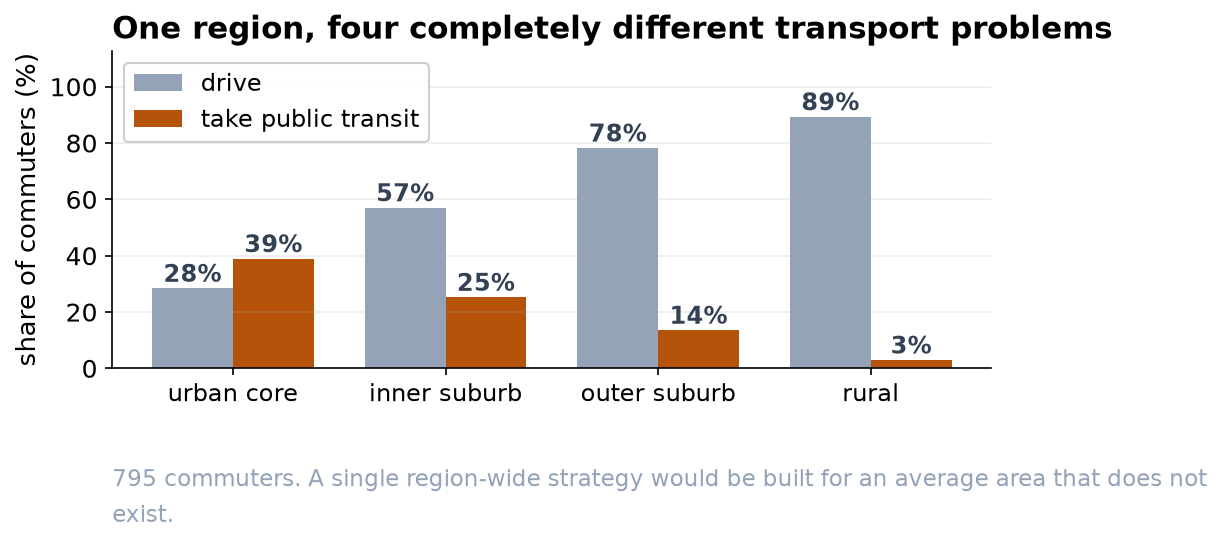
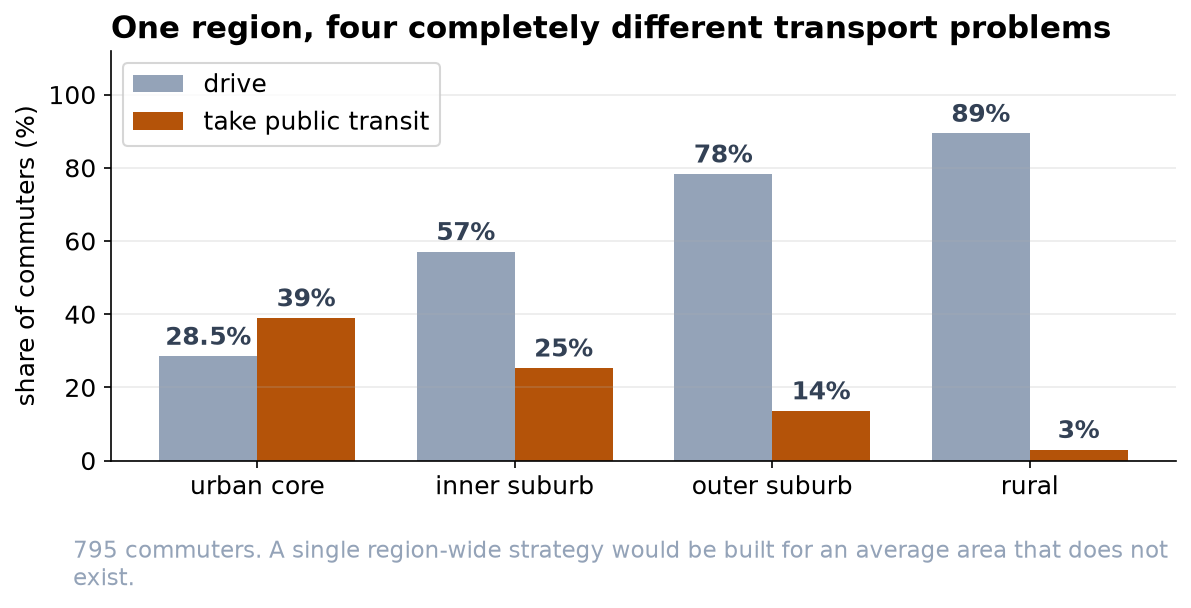
Correct nine points in Capstone: Commute Mode by Region
- The page, notebook and both reports said the association is carried
  almost entirely by the car and transit cells and that cycling and
  walking barely move. Car and transit carry about 73% of the
  chi-square (now printed); cycling and walking fall from about 16% to
  4% and are clearly over-represented in the Urban Core (residuals +4.2
  and +3.7).
- The technical report gave every regional share a margin of six to
  seven points. The margins run from about 2 to 7 and shrink with the
  share.
- Non-significant age ANOVAs were read as proof that age doesn't differ.
  They found no detectable difference in mean age, so age is unlikely
  to drive the pattern; the figure, caption, notebook and report say so.
- "Strongly related" sat beside a V of 0.28 the same pages call
  moderate. It is now "clearly related".
- The quiz and text said almost any pattern is significant at n = 795.
  A V below about 0.08 would not be, so the reason is now that a
  p-value says nothing about strength.
- "The data will not support calling it strong" depends on the fixed
  cutoffs used; Cohen's benchmark for a 4 x 4 table puts large near
  0.29, inside the interval. The text now names the convention.
- The residuals were called roughly z-scores. They are Pearson
  residuals, whose variance is below 1, so the +/-2 flag is
  conservative.
- Urban Core car use is 28.5%, which the page, brief and its figure
  rounded down to 28%. The figure is redrawn.
[…]

diff --git a/chapters/notebooks/html/capstone-commute-mode-by-region.html b/chapters/notebooks/html/capstone-commute-mode-by-region.html
@@ -8296,7 +8296,7 @@ clean analysis sample: n = 795
 </div>
 <div class="jp-InputArea jp-Cell-inputArea"><div class="jp-InputPrompt jp-InputArea-prompt">
 </div><div class="jp-RenderedHTMLCommon jp-RenderedMarkdown jp-MarkdownOutput" data-mime-type="text/markdown">
-<p><strong>Left:</strong> the four bars stop at or just short of the dashed line at 200, the number drawn from each area. The few respondents missing are the duplicates and incomplete answers Step 4 removed. Equal counts make the areas easy to compare, and they also mean the file says nothing about how many people live in each one. <strong>Right:</strong> each mode's share of an area's respondents, from the core outward. Car use rises at every step and transit falls at every step, while cycling and walking shrink from about 16% each in the Urban Core to about 4% in Rural areas. If commute mode were independent of area, these four lines would run flat. Step 6 puts the counts in a table, and Step 11 tests whether a gradient this steep could be chance.</p>
+<p><strong>Left:</strong> the four bars stop at or just short of the dashed line at 200, the number drawn from each area. The five missing respondents are the incomplete answers Step 4 removed (the two duplicates were extra copies, so they never counted toward the 200). Equal counts make the areas easy to compare, and they also mean the file says nothing about how many people live in each one. <strong>Right:</strong> each mode's share of an area's respondents, from the core outward. Car use rises at every step and transit falls at every step, while cycling and walking shrink from about 16% each in the Urban Core to about 4% in Rural areas. If commute mode were independent of area, these four lines would run flat. Step 6 puts the counts in a table, and Step 11 tests whether a gradient this steep could be chance.</p>
 </div>
 </div>
 </div>
@@ -8364,7 +8364,7 @@ Rural         89.4             3.0      4.0   3.5
 </div>
 <div class="jp-InputArea jp-Cell-inputArea"><div class="jp-InputPrompt jp-InputArea-prompt">
 </div><div class="jp-RenderedHTMLCommon jp-RenderedMarkdown jp-MarkdownOutput" data-mime-type="text/markdown">
-<p><strong>Read the row percentages, not the raw counts.</strong> Because every area contributes 200 respondents by design, the raw counts are comparable, but percentages make the pattern unmistakable: public transit falls from roughly 39% in the Urban Core to about 3% in Rural areas, while car use climbs from about 28% to nearly 90%. If mode and area were independent, these four rows would look alike. They do not.</p>
+<p><strong>Read the row percentages, not the raw counts.</strong> Because every area contributes 200 respondents by design, the raw counts are comparable, but percentages make the pattern unmistakable: public transit falls from roughly 39% in the Urban Core to about 3% in Rural areas, while car use climbs from about 29% (28.5%) to nearly 90%. If mode and area were independent, these four rows would look alike. They do not.</p>
 </div>
 </div>
 </div>
@@ -8463,7 +8463,7 @@ assumption satisfied
 <h2 id="Step-10-%C2%B7-Choose-the-tests">Step 10 · Choose the tests<a class="anchor-link" href="#Step-10-%C2%B7-Choose-the-tests">¶</a></h2><ul>
 <li><strong>Primary:</strong> chi-square test of independence on the 4 × 4 table.</li>
 <li><strong>Effect size:</strong> Cramer's V, which rescales chi-square to a 0-to-1 measure comparable across tables.</li>
-<li><strong>Locating the effect:</strong> standardized (Pearson) residuals, cell by cell.</li>
+<li><strong>Locating the effect:</strong> Pearson residuals, (observed minus expected) over the square root of expected, cell by cell.</li>
 </ul>
 </div>
 </div>
@@ -8519,7 +8519,7 @@ Cramer's V = 0.282   (moderate association)
 </div>
 <div class="jp-InputArea jp-Cell-inputArea"><div class="jp-InputPrompt jp-InputArea-prompt">
 </div><div class="jp-RenderedHTMLCommon jp-RenderedMarkdown jp-MarkdownOutput" data-mime-type="text/markdown">
-<p><strong>Reading the result.</strong> The chi-square statistic is enormous relative to its 9 degrees of freedom, and the p-value is effectively zero: area type and commute mode are clearly not independent. Cramer's V of about 0.28 puts the strength of that association in the <strong>moderate</strong> range. That distinction matters, because with 795 respondents even a trivial pattern would have produced a significant p-value; the effect size is what says the pattern is worth acting on.</p>
+<p><strong>Reading the result.</strong> The chi-square statistic is enormous relative to its 9 degrees of freedom, and the p-value is effectively zero: area type and commute mode are clearly not independent. Cramer's V of about 0.28 puts the strength of that association in the <strong>moderate</strong> range. That distinction matters, because a p-value says how surprising the pattern would be under independence and nothing about how strong it is; with 795 respondents a fairly weak pattern (V around 0.08 or more) would already be significant. The effect size is what says the pattern is worth acting on.</p>
 </div>
 </div>
 </div>
@@ -8528,18 +8528,20 @@ Cramer's V = 0.282   (moderate association)
 <div class="jp-Collapser jp-InputCollapser jp-Cell-inputCollapser">
 </div>
 <div class="jp-InputArea jp-Cell-inputArea">
-<div class="jp-InputPrompt jp-InputArea-prompt">In [8]:</div>
+<div class="jp-InputPrompt jp-InputArea-prompt">In [10]:</div>
 <div class="jp-CodeMirrorEditor jp-Editor jp-InputArea-editor" data-type="inline">
 <div class="cm-editor cm-s-jupyter">
 <div class="highlight hl-ipython3"><pre><span></span><span class="n">resid</span> <span class="o">=</span> <span class="p">(</span><span class="n">ct</span><span class="o">.</span><span class="n">values</span> <span class="o">-</span> <span class="n">expected</span><span class="p">)</span><span class="o">/</span><span class="n">np</span><span class="o">.</span><span class="n">sqrt</span><span class="p">(</span><span class="n">expected</span><span class="p">)</span>
 <span class="n">res</span> <span class="o">=</span> <span class="n">pd</span><span class="o">.</span><span class="n">DataFrame</span><span class="p">(</span><span class="n">resid</span><span class="p">,</span> <span class="n">index</span><span class="o">=</span><span class="n">ct</span><span class="o">.</span><span class="n">index</span><span class="p">,</span> <span class="n">columns</span><span class="o">=</span><span class="n">ct</span><span class="o">.</span><span class="n">columns</span><span class="p">)</span><span class="o">.</span><span class="n">round</span><span class="p">(</span><span class="mi">2</span><span class="p">)</span>
-<span class="nb">print</span><span class="p">(</span><span class="s2">"STANDARDIZED RESIDUALS  (roughly z-scores; |value| &gt; 2 is a notable cell)</span><span class="se">\n</span><span class="s2">"</span><span class="p">)</span>
+<span class="nb">print</span><span class="p">(</span><span class="s2">"PEARSON RESIDUALS  (|value| &gt; 2 flags a notable cell; their variance is below 1, so this is a conservative flag)</span><span class="se">\n</span><span class="s2">"</span><span class="p">)</span>
 <span class="nb">print</span><span class="p">(</span><span class="n">res</span><span class="o">.</span><span class="n">to_string</span><span class="p">())</span>
 <span class="nb">print</span><span class="p">(</span><span class="s2">"</span><span class="se">\n</span><span class="s2">largest positive (more than expected):"</span><span class="p">)</span>
 <span class="n">flat</span> <span class="o">=</span> <span class="n">res</span><span class="o">.</span><span class="n">stack</span><span class="p">()</span><span class="o">.</span><span class="n">sort_values</span><span class="p">(</span><span class="n">ascending</span><span class="o">=</span><span class="kc">False</span><span class="p">)</span>
 <span class="k">for</span> <span class="p">(</span><span class="n">r_</span><span class="p">,</span> <span class="n">c_</span><span class="p">),</span> <span class="n">v</span> <span class="ow">in</span> <span class="n">flat</span><span class="o">.</span><span class="n">head</span><span class="p">(</span><span class="mi">3</span><span class="p">)</span><span class="o">.</span><span class="n">items</span><span class="p">():</span> <span class="nb">print</span><span class="p">(</span><span class="sa">f</span><span class="s2">"   </span><span class="si">{</span><span class="n">r_</span><span class="si">:</span><span class="s2">13s</span><span class="si">}</span><span class="s2"> x </span><span class="si">{</span><span class="n">c_</span><span class="si">:</span><span class="s2">15s</span><span class="si">}</span><span class="s2"> </span><span class="si">{</span><span class="n">v</span><span class="si">:</span><span class="s2">+.2f</span><span class="si">}</span><span class="s2">"</span><span class="p">)</span>
 <span class="nb">print</span><span class="p">(</span><span class="s2">"largest negative (fewer than expected):"</span><span class="p">)</span>
 <span class="k">for</span> <span class="p">(</span><span class="n">r_</span><span class="p">,</span> <span class="n">c_</span><span class="p">),</span> <span class="n">v</span> <span class="ow">in</span> <span class="n">flat</span><span class="o">.</span><span class="n">tail</span><span class="p">(</span><span class="mi">3</span><span class="p">)</span><span class="o">.</span><span class="n">items</span><span class="p">():</span> <span class="nb">print</span><span class="p">(</span><span class="sa">f</span><span class="s2">"   </span><span class="si">{</span><span class="n">r_</span><span class="si">:</span><span class="s2">13s</span><span class="si">}</span><span class="s2"> x </span><span class="si">{</span><span class="n">c_</span><span class="si">:</span><span class="s2">15s</span><span class="si">}</span><span class="s2"> </span><span class="si">{</span><span class="n">v</span><span class="si">:</span><span class="s2">+.2f</span><span class="si">}</span><span class="s2">"</span><span class="p">)</span>
+<span class="n">share</span> <span class="o">=</span> <span class="p">(</span><span class="n">res</span><span class="o">**</span><span class="mi">2</span><span class="p">)</span><span class="o">.</span><span class="n">sum</span><span class="p">()</span> <span class="o">/</span> <span class="p">(</span><span class="n">res</span><span class="o">**</span><span class="mi">2</span><span class="p">)</span><span class="o">.</span><span class="n">values</span><span class="o">.</span><span class="n">sum</span><span class="p">()</span>
+<span class="nb">print</span><span class="p">(</span><span class="s2">"</span><span class="se">\n</span><span class="s2">share of chi-square by mode:"</span><span class="p">,</span> <span class="s2">", "</span><span class="o">.</span><span class="n">join</span><span class="p">(</span><span class="sa">f</span><span class="s2">"</span><span class="si">{</span><span class="n">m</span><span class="si">}</span><span class="s2"> </span><span class="si">{</span><span class="n">s</span><span class="si">:</span><span class="s2">.0%</span><span class="si">}</span><span class="s2">"</span> <span class="k">for</span> <span class="n">m</span><span class="p">,</span> <span class="n">s</span> <span class="ow">in</span> <span class="n">share</span><span class="o">.</span><span class="n">items</span><span class="p">()))</span>
 </pre></div>
 </div>
 </div>
@@ -8552,7 +8554,7 @@ Cramer's V = 0.282   (moderate association)
 <div class="jp-OutputArea-child">
 <div class="jp-OutputPrompt jp-OutputArea-prompt"></div>
 <div class="jp-RenderedText jp-OutputArea-output" data-mime-type="text/plain" tabindex="0">
-<pre>STANDARDIZED RESIDUALS  (roughly z-scores; |value| &gt; 2 is a notable cell)
+<pre>PEARSON RESIDUALS  (|value| &gt; 2 flags a notable cell; their variance is below 1, so this is a conservative flag)
 
 commute_mode   Car  Public transit  Bicycle  Walk
 region                                           
@@ -8569,6 +8571,8 @@ largest negative (fewer than expected):
    Rural         x Walk            -2.39
    Rural         x Public transit  -5.40
    Urban Core    x Car             -6.18
+
+share of chi-square by mode: Car 36%, Public transit 37%, Bicycle 13%, Walk 14%
 </pre>
 </div>
 </div>
@@ -8637,7 +8641,7 @@ largest negative (fewer than expected):
 </div>
 <div class="jp-InputArea jp-Cell-inputArea"><div class="jp-InputPrompt jp-InputArea-prompt">
 </div><div class="jp-RenderedHTMLCommon jp-RenderedMarkdown jp-MarkdownOutput" data-mime-type="text/markdown">
-<p><strong>The two views together.</strong> The stacked bars show the composition of each area, and the residual heatmap shows which cells carry the association. Read together they say the same thing twice: transport behavior shifts systematically with density, and the shift is driven by the car and public-transit cells rather than by cycling or walking.</p>
+<p><strong>The two views together.</strong> The stacked bars show the composition of each area, and the residual heatmap shows which cells carry the association. Read together they say the same thing twice: transport behavior shifts systematically with density, and the car and public-transit cells carry most of it (about 73% of chi-square, printed above), while cycling and walking, both clearly over-represented in the Urban Core, carry the rest.</p>
 </div>
 </div>
 </div>
@@ -8748,7 +8752,7 @@ Rural                           3.0%  [  1.4%,   6.4%]   199
 </div>
 <div class="jp-InputArea jp-Cell-inputArea"><div class="jp-InputPrompt jp-InputArea-prompt">
 </div><div class="jp-RenderedHTMLCommon jp-RenderedMarkdown jp-MarkdownOutput" data-mime-type="text/markdown">
-<p><strong>Strength, with a range.</strong> Cramer's V is 0.28 with an interval of roughly 0.25 to 0.32, so "moderate" is a fair description and the data will not support calling it strong. More usefully, the per-region percentages now carry margins. Public transit use in the Urban Core is around 39 percent, plus or minus about 7 points. A transport plan built on "39 percent" as a fixed figure is building on a number the survey cannot pin down that tightly.</p>
+<p><strong>Strength, with a range.</strong> Cramer's V is 0.28 with an interval of roughly 0.25 to 0.32, so "moderate" is a fair description on the cutoffs used here (0.1, 0.2, 0.4). Benchmarks for V depend on the table's size, though, and Cohen's for a 4 x 4 table put "large" near 0.29, inside this interval, so the label depends on the convention. More usefully, the per-region percentages now carry margins. Public transit use in the Urban Core is around 39 percent, plus or minus about 7 points. A transport plan built on "39 percent" as a fixed figure is building on a number the survey cannot pin down that tightly.</p>
 <p>Note that these intervals describe the sampled strata. Because allocation was equal rather than proportional, they are not estimates for the region as a whole population.</p>
 </div>
 </div>
@@ -8838,7 +8842,7 @@ Walk               67  3.79
 <div class="jp-InputArea jp-Cell-inputArea"><div class="jp-InputPrompt jp-InputArea-prompt">
 </div><div class="jp-RenderedHTMLCommon jp-RenderedMarkdown jp-MarkdownOutput" data-mime-type="text/markdown">
 <p><strong>Why a third variable belongs in this chapter.</strong> The temptation, once a table like this is significant, is to reach for an explanation: <em>people in the Urban Core prefer public transit</em>. The age columns are a reminder that region is bundled with everything else that varies across a city.</p>
-<p>Age turns out not to differ across these regions or modes (p = 0.58 and p = 0.88), so it is not quietly generating the pattern. That is worth establishing rather than assuming, and it took two lines of code.</p>
+<p>Mean age shows no detectable difference across these regions or modes (p = 0.58 and p = 0.88), so age is unlikely to be generating much of the pattern. That falls short of proof, but it is worth checking rather than assuming, and it took two lines of code.</p>
 <p>The satisfaction column carries the sharper warning, precisely because of how it comes out. Cyclists report the highest mean satisfaction of any mode, 4.16 against 3.79 for walkers, and it would be easy to write that up as "cycling makes for happier commutes". The test says otherwise (H = 1.22, p = 0.75): with 64 cyclists that ordering is well within chance. And even had it reached significance, the causal reading would not follow. People who live close enough to cycle have short commutes, and short commutes are pleasant whatever the mode. <strong>Distance is the third variable, and this survey never measured it.</strong></p>
 <p><strong>A significant chi-square establishes that two categorical variables travel together. It never establishes which one is doing the work, or whether a third is doing it for them.</strong> That is the same discipline as <a href="../../capstone-study-hours-and-scores.html">Capstone 11</a>, transplanted from continuous data to a contingency table.</p>
 </div>
@@ -8851,7 +8855,7 @@ Walk               67  3.79
 </div>
 <div class="jp-InputArea jp-Cell-inputArea"><div class="jp-InputPrompt jp-InputArea-prompt">
 </div><div class="jp-RenderedHTMLCommon jp-RenderedMarkdown jp-MarkdownOutput" data-mime-type="text/markdown">
-<h2 id="Step-14-%C2%B7-Interpret-in-plain-language">Step 14 · Interpret in plain language<a class="anchor-link" href="#Step-14-%C2%B7-Interpret-in-plain-language">¶</a></h2><p>Area type and commute mode are strongly and clearly related. In the <strong>Urban Core</strong> about 39% take public transit and 28% drive; in <strong>Rural</strong> areas about 90% drive and 3% take transit, with the two suburban bands sitting in between in an orderly progression. Cramer's V of 0.28 describes this as a moderate association, which for survey data on human behavior is substantial. For a transport authority the practical implication is that a single region-wide strategy would fit none of these areas well.</p>
+<h2 id="Step-14-%C2%B7-Interpret-in-plain-language">Step 14 · Interpret in plain language<a class="anchor-link" href="#Step-14-%C2%B7-Interpret-in-plain-language">¶</a></h2><p>Area type and commute mode are clearly related. In the <strong>Urban Core</strong> about 39% take public transit and 29% drive; in <strong>Rural</strong> areas about 90% drive and 3% take transit, with the two suburban bands sitting in between in an orderly progression. Cramer's V of 0.28 describes this as a moderate association, which for survey data on human behavior is substantial. For a transport authority the practical implication is that a single region-wide strategy would fit none of these areas well.</p>
 </div>
 </div>
 </div>

diff --git a/reports/capstone-8-commute-mode-by-region-technical.html b/reports/capstone-8-commute-mode-by-region-technical.html
@@ -74,7 +74,7 @@
     </div>
 
     <div class="rpt-body">
-      <div class="rpt-abstract"><b class="lbl">Abstract.</b> <b>Objective.</b> To determine whether commute mode is associated with residential area type, and to characterize the structure of any association. <b>Methods.</b> A stratified random sample with equal allocation (200 respondents from each of four area strata) yielded 795 complete responses on two nominal items. Independence was tested by the Pearson chi-square statistic; the expected-count condition was verified; association strength was quantified by Cramer's V, and standardized residuals were inspected to localize departures from independence. <b>Results.</b> All expected counts exceeded 5 (minimum 15.94). The null of independence was rejected, &#967;&#178;(9) = 189.70, p = 4.75e-36, with Cramer's V = 0.282 indicating a moderate association. Public transit share declined monotonically from 39.0% (Urban Core) to 3.0% (Rural) while car share rose from 28.5% to 89.4%. Standardized residuals localized the association to the car and public-transit cells at the density extremes (|z| up to 6.2); bicycle and walking cells contributed little. <b>Conclusions.</b> Mode choice is systematically related to area type. Because allocation was equal rather than proportional, between-stratum comparisons are valid but pooled marginal estimates require population weighting.</div>
+      <div class="rpt-abstract"><b class="lbl">Abstract.</b> <b>Objective.</b> To determine whether commute mode is associated with residential area type, and to characterize the structure of any association. <b>Methods.</b> A stratified random sample with equal allocation (200 respondents from each of four area strata) yielded 795 complete responses on two nominal items. Independence was tested by the Pearson chi-square statistic; the expected-count condition was verified; association strength was quantified by Cramer's V, and Pearson residuals were inspected to localize departures from independence. <b>Results.</b> All expected counts exceeded 5 (minimum 15.94). The null of independence was rejected, &#967;&#178;(9) = 189.70, p = 4.75e-36, with Cramer's V = 0.282 indicating a moderate association. Public transit share declined monotonically from 39.0% (Urban Core) to 3.0% (Rural) while car share rose from 28.5% to 89.4%. Pearson residuals placed most of the association (about 73% of the chi-square) in the car and public-transit cells at the density extremes (residuals up to 6.2 in magnitude), with bicycle and walking also over-represented in the Urban Core. <b>Conclusions.</b> Mode choice is systematically related to area type. Because allocation was equal rather than proportional, between-stratum comparisons are valid but pooled marginal estimates require population weighting.</div>
       <p class="rpt-keywords"><b>Keywords:</b> chi-square test of independence; contingency table; expected counts; Cramer's V; standardized residuals; stratified sampling.</p>
       <h2>1. Introduction</h2>
       <p>Where both variables of interest are categorical, the data reduce to a contingency table of counts and the question of interest becomes association rather than difference in means. The Pearson chi-square test of independence evaluates whether the joint distribution factorizes into its marginals, that is, whether the conditional distribution of one variable is the same at every level of the other.</p>
@@ -93,16 +93,16 @@
       <figure class="rpt-fig"><img src="../assets/img/capstone-commute-expected.png" alt="Grouped bars comparing observed and expected counts for each of the sixteen cells."><figcaption><span class="n">Figure 1.</span> Observed against expected counts for all sixteen cells. The chi-square statistic is a weighted summary of these discrepancies.</figcaption></figure>
       <div class="rpt-cap"><span class="n">Table 3.</span> Test of independence between area type and commute mode.</div>
       <div class="rpt-tablewrap" tabindex="0"><table class="rpt-table"><thead><tr><th>Quantity</th><th>Value</th></tr></thead><tbody><tr><td><span class='nm'>Pearson &#967;&#178;</span></td><td>189.70</td></tr><tr><td><span class='nm'>Degrees of freedom</span></td><td>9</td></tr><tr><td><span class='nm'>p-value</span></td><td>4.75e-36</td></tr><tr><td><span class='nm'>n</span></td><td>795</td></tr><tr><td><span class='nm'>Cramer's V</span></td><td>0.282 (moderate)</td></tr><tr><td><span class='nm'>Minimum expected count</span></td><td>15.94</td></tr></tbody></table></div>
-      <p>The null hypothesis of independence is rejected decisively. Given n = 795, however, statistical significance is a weak criterion; the effect size is the informative quantity, and Cramer's V = 0.282 places the association in the moderate range, substantial for behavioral survey data. The residual decomposition (Table 4) shows that the association is structured rather than diffuse.</p>
+      <p>The null hypothesis of independence is rejected decisively. A p-value measures surprise under independence rather than strength; the effect size is the informative quantity, and Cramer's V = 0.282 places the association in the moderate range, substantial for behavioral survey data. The residual decomposition (Table 4) shows that the association is structured rather than diffuse.</p>
       <div class="rpt-cap"><span class="n">Table 4.</span> Selected standardized residuals (largest absolute values).</div>
       <div class="rpt-tablewrap" tabindex="0"><table class="rpt-table"><thead><tr><th>Cell</th><th>Observed</th><th>Expected</th><th>Standardized residual</th></tr></thead><tbody><tr><td><span class='nm'>Urban Core &#215; Car</span></td><td>57</td><td>126.5</td><td>-6.18</td></tr><tr><td><span class='nm'>Urban Core &#215; Public transit</span></td><td>78</td><td>40.5</td><td>+5.89</td></tr><tr><td><span class='nm'>Rural &#215; Car</span></td><td>178</td><td>125.9</td><td>+4.64</td></tr><tr><td><span class='nm'>Rural &#215; Public transit</span></td><td>6</td><td>40.3</td><td>-5.40</td></tr></tbody></table></div>
       <figure class="rpt-fig"><img src="../assets/img/capstone-commute-result.png" alt="Stacked bars of mode share by area type beside a residual heatmap concentrating in the car and transit cells."><figcaption><span class="n">Figure 2.</span> Mode composition by area (left) and the standardized-residual map (right).</figcaption></figure>
-      <p>Bicycle and walking cells carry residuals of small magnitude throughout, so the association is attributable almost entirely to substitution between private car and public transit along the density gradient.</p>
+      <p>Car and public-transit cells carry about 73% of the chi-square, so the association is mainly a substitution between private car and public transit along the density gradient; bicycle and walking carry the rest, with residuals of +4.2 and +3.7 in the Urban Core.</p>
       <h2>5. Interval estimates and confounding assessment</h2>
       <div class="rpt-cap"><span class="n">Table 5.</span> Interval estimates for the association measure and the stratum-specific proportions.</div>
       <div class="rpt-tablewrap" tabindex="0"><table class="rpt-table"><thead><tr><th>Quantity</th><th>Estimate</th><th>95% CI</th><th>Method</th></tr></thead><tbody><tr><td><span class='nm'>Cramer's V</span></td><td>0.282</td><td>0.253 to 0.320</td><td>percentile bootstrap</td></tr><tr><td><span class='nm'>Transit share, Urban Core</span></td><td>39.0%</td><td>32.5% to 45.9%</td><td>Wilson</td></tr><tr><td><span class='nm'>Transit share, Inner Suburb</span></td><td>25.3%</td><td>19.7% to 31.7%</td><td>Wilson</td></tr><tr><td><span class='nm'>Transit share, Outer Suburb</span></td><td>13.6%</td><td>9.5% to 19.1%</td><td>Wilson</td></tr><tr><td><span class='nm'>Transit share, Rural</span></td><td>3.0%</td><td>1.4% to 6.4%</td><td>Wilson</td></tr></tbody></table></div>
-      <p>The association measure is bounded between 0.25 and 0.32, supporting a characterization of moderate strength and excluding a strong one. The stratum-specific proportions are the quantities likely to be transferred into planning documents, and each carries a margin of error of six to seven percentage points. Because allocation was equal rather than proportional, these estimates describe the sampled strata and are not population estimates without weighting.</p>
-      <p>Two covariates recorded in the instrument were not analyzed in the original report. Respondent age differs neither across regions (p = 0.58) nor across modes (p = 0.88), and therefore satisfies neither condition required of a confounder. Commute satisfaction does not differ detectably across modes (H = 1.22, p = 0.75), although the observed ordering places cyclists highest.</p>
+      <p>The association measure is bounded between 0.25 and 0.32, supporting a characterization of moderate strength on fixed cutoffs of 0.1, 0.2 and 0.4; Cohen's benchmarks for a 4 &#215; 4 table place a large effect near 0.29, inside the interval. The stratum-specific proportions are the quantities likely to be transferred into planning documents, and their margins of error run from about 2 to 7 percentage points, shrinking as the share falls. Because allocation was equal rather than proportional, these estimates describe the sampled strata and are not population estimates without weighting.</p>
+      <p>Two covariates recorded in the instrument were not analyzed in the original report. Respondent mean age shows no detectable difference across regions (p = 0.58) or modes (p = 0.88), so age is unlikely to confound the association materially. Commute satisfaction does not differ detectably across modes (H = 1.22, p = 0.75), although the observed ordering places cyclists highest.</p>
       <p>The latter result is instructive precisely because it is null. Had it reached significance, a causal reading would still not follow: proximity to the workplace determines both the feasibility of cycling and the pleasantness of the commute, and distance was not measured. A significant test of independence establishes covariation between two categorical variables and is silent on which is antecedent, or whether a third is antecedent to both.</p>
       <h2>6. Discussion</h2>
       <p>Commute mode is systematically associated with residential area type, in a monotone gradient consistent with transit availability and trip distance. The practical implication is that a spatially uniform transport intervention is poorly matched to any of the four strata.</p>

diff --git a/chapters/capstone-commute-mode-by-region.html b/chapters/capstone-commute-mode-by-region.html
@@ -152,9 +152,9 @@
     <div class="callout key">
       <div class="cico">🚲</div>
       <div><div class="ctitle">The finding, up front</div>
-        <p>Area type and commute mode are strongly related: <strong>&#967;&#178;(9) = 189.7, p &lt; 0.001</strong>, with
+        <p>Area type and commute mode are clearly related: <strong>&#967;&#178;(9) = 189.7, p &lt; 0.001</strong>, with
            <strong>Cramer's V = 0.28</strong> (a moderate association). Public transit falls from <strong>39% in the Urban
-           Core to 3% in Rural areas</strong> while car use climbs from 28% to 89%. But the sampling design carries a
+           Core to 3% in Rural areas</strong> while car use climbs from 28.5% to 89%. But the sampling design carries a
            warning that changes how the numbers may be quoted.</p></div>
     </div>
   </section>
@@ -248,7 +248,7 @@
     </div>
 
     <p>Read the percentages down each column. If mode and area were independent, these four rows would look alike. Instead
-       public transit falls steadily from <strong>39% to 3%</strong> while car use climbs from <strong>28% to 89%</strong>,
+       public transit falls steadily from <strong>39% to 3%</strong> while car use climbs from <strong>28.5% to 89%</strong>,
        an orderly gradient tracking density.</p>
   </section>
 
@@ -285,14 +285,15 @@
       <div class="rchip"><div class="rk">Sample</div><div class="rv">795</div><div class="rd">respondents, 4 &#215; 4 table</div></div>
     </div>
 
-    <p>The p-value settles that the variables are not independent, but with 795 respondents almost any pattern would have
+    <p>The p-value settles that the variables are not independent, but a p-value measures surprise under independence rather than strength, and with 795 respondents even a fairly weak pattern would have
        been significant. <strong>Cramer's V</strong> is the number that says whether the association is worth acting on: it
        rescales chi-square onto a 0-to-1 range, and 0.28 is a moderate association, substantial for survey data on human
        behavior.</p>
 
     <p>A significant chi-square says only that the table departs from independence <em>somewhere</em>. To find out where,
-       we use <strong>standardized residuals</strong>, the chi-square equivalent of a post-hoc test. Each is roughly a
-       z-score for one cell, and anything beyond about &#177;2 is notable.</p>
+       we use <strong>Pearson residuals</strong>, (observed minus expected) over the square root of expected, the chi-square
+       equivalent of a post-hoc test. Anything beyond about &#177;2 is notable, and since their variance is below 1 that
+       flag is a conservative one.</p>
 
     <div style="overflow-x:auto" tabindex="0">
       <table class="disp-table">
@@ -308,7 +309,7 @@
 
     <figure class="nb-fig">
       <img src="../assets/img/capstone-commute-result.png" alt="Two panels. On the left, stacked bars showing the percentage split of commute modes within each area type, with public transit shrinking and car use growing from Urban Core through to Rural. On the right, a heatmap of standardized residuals for the sixteen cells, with strong red for Rural-Car and Urban-Transit and strong blue for Urban-Car and Rural-Transit.">
-      <figcaption><strong>Left:</strong> how each area splits across modes. <strong>Right:</strong> the standardized residuals. The association is not spread evenly across the table; it is carried almost entirely by the <strong>car and public-transit</strong> cells at the two extremes of density. Cycling and walking contribute little.</figcaption>
+      <figcaption><strong>Left:</strong> how each area splits across modes. <strong>Right:</strong> the standardized residuals. The association is not spread evenly across the table; the <strong>car and public-transit</strong> cells carry most of it (about 73% of chi-square), at the two extremes of density. Cycling and walking carry the rest, and both are clearly over-represented in the Urban Core.</figcaption>
     </figure>
   </section>
 
@@ -384,7 +385,7 @@
       </table>
     </div>
 
-    <p>"Moderate" is a fair description of a V between 0.25 and 0.32, and the data will not support calling it strong. More
+    <p>"Moderate" is a fair description of a V between 0.25 and 0.32 on the cutoffs used here (0.1, 0.2, 0.4), though Cohen&#8217;s benchmarks for a 4 &#215; 4 table put &#8220;large&#8221; near 0.29, so the label depends on the convention. More
        usefully, the headline percentages now carry margins: transit use in the Urban Core is around 39 percent give or take
        7 points, and a plan built on 39 percent as a fixed figure is building on a number the survey cannot pin down that
        tightly. These intervals describe the sampled strata; because allocation was equal rather than proportional, they are
@@ -403,12 +404,12 @@
         <text x="380" y="82" text-anchor="middle" font-family="Inter,Segoe UI,sans-serif" font-size="15" font-weight="800" fill="#78350f">AND</text>
 
         <rect x="24" y="122" width="712" height="30" rx="8" fill="#f0fdf4" stroke="#bbf7d0"/>
-        <text x="42" y="142" font-family="Inter,Segoe UI,sans-serif" font-size="11.5" fill="#166534"><tspan font-weight="800">AGE</tspan>  (a) p = 0.58, no   ·   (b) p = 0.88, no   →   not a confounder here, and we checked rather than assumed</text>
+        <text x="42" y="142" font-family="Inter,Segoe UI,sans-serif" font-size="11.5" fill="#166534"><tspan font-weight="800">AGE</tspan>  (a) p = 0.58, none detected   ·   (b) p = 0.88, none detected   →   unlikely to drive the pattern, and we checked</text>
         <rect x="24" y="158" width="712" height="30" rx="8" fill="#fef2f2" stroke="#fecaca"/>
         <text x="42" y="178" font-family="Inter,Segoe UI,sans-serif" font-size="11.5" fill="#991b1b"><tspan font-weight="800">DISTANCE TO WORK</tspan>  (a) certainly yes   ·   (b) certainly yes   →   would confound, and the survey never measured it</text>
       </svg>
-      <div class="cap"><strong>The two-condition test, and its limit.</strong> Age was in the file and fails both conditions,
-        so it is not quietly generating the pattern. Distance to work would pass both easily and was never collected. A
+      <div class="cap"><strong>The two-condition test, and its limit.</strong> Age was in the file and shows no detectable link on
+        either condition, so it is unlikely to be generating much of the pattern. Distance to work would pass both easily and was never collected. A
         significant chi-square establishes that two categorical variables travel together; it never establishes which one is
         doing the work, or whether a third is doing it for them.</div>
     </div>
@@ -467,7 +468,7 @@
         <li><span class="ck">✓</span><span><strong>Two categorical variables</strong> become a contingency table, and the chi-square test of independence asks whether they are related.</span></li>
         <li><span class="ck">✓</span><span><strong>Check the expected counts</strong>, not the observed ones: all must be about 5 or more (smallest here was 15.9), or switch to Fisher's exact test.</span></li>
         <li><span class="ck">✓</span><span><strong>Report an effect size</strong>: &#967;&#178;(9) = 189.7 with p &lt; 0.001 only says "not independent"; Cramer's V = 0.28 says the association is moderate.</span></li>
-        <li><span class="ck">✓</span><span><strong>Standardized residuals locate the effect</strong>: it lives in the car and transit cells at the density extremes, not in cycling or walking.</span></li>
+        <li><span class="ck">✓</span><span><strong>Pearson residuals locate the effect</strong>: most of it lives in the car and transit cells at the density extremes, with cycling and walking also over-represented in the Urban Core.</span></li>
         <li><span class="ck">✓</span><span><strong>The sampling design bounds the claim</strong>: equal allocation across strata makes area comparisons fair but makes any pooled region-wide percentage invalid without weighting.</span></li>
       </ul>
     </div>
@@ -542,7 +543,7 @@ window.addEventListener('scroll', () => {
     },
     {
       q: "Cramér's V of 0.28 was reported because…",
-      options: ["It replaces the p-value", "With 795 respondents almost any pattern is significant, so an effect size says whether it matters", "It tests normality", "It corrects for multiple comparisons"],
+      options: ["It replaces the p-value", "A p-value says nothing about strength, so an effect size says whether the pattern matters", "It tests normality", "It corrects for multiple comparisons"],
       answer: 1,
       explain: "V rescales chi-square to a 0-to-1 measure of association strength, here moderate."
     },

diff --git a/reports/capstone-8-commute-mode-by-region.html b/reports/capstone-8-commute-mode-by-region.html
@@ -75,13 +75,13 @@
 
     <div class="rpt-body">
       <h2>Recommendation</h2>
-      <div class="rpt-key"><span class="k-tag">Bottom line</span><p>Stop planning for the region as one place. Commute mode is strongly tied to area type: in the urban core <strong>39% take public transit</strong> and 28% drive, while in rural areas <strong>89% drive</strong> and only 3% take transit. A single region-wide transport strategy would fit none of these four areas well. Target investment by area type.</p></div>
+      <div class="rpt-key"><span class="k-tag">Bottom line</span><p>Stop planning for the region as one place. Commute mode is clearly tied to area type: in the urban core <strong>39% take public transit</strong> and 28.5% drive, while in rural areas <strong>89% drive</strong> and only 3% take transit. A single region-wide transport strategy would fit none of these four areas well. Target investment by area type.</p></div>
       <h2>What we found</h2>
       <p>We surveyed 795 residents across four area types and cross-tabulated where they live against how they mainly travel. The relationship is unmistakable and highly unlikely to be chance. More usefully, it is an orderly gradient rather than a scattered pattern: as areas get less dense, transit use falls steadily and car use rises steadily, with the two suburban bands sitting neatly in between.</p>
-      <figure class="rpt-fig"><img src="../assets/img/capstone-commute-result.png" alt="Stacked bars of commute mode share by area type, beside a heatmap of standardized residuals showing strong effects in the car and public-transit cells."><figcaption><span class="n">Figure 1.</span> Left: how each area splits across the four modes. Right: which combinations occur far more or far less often than they would if area made no difference. The reds and blues sit almost entirely in the car and transit columns.</figcaption></figure>
-      <figure class="rpt-fig"><img src="../assets/img/report-08-commute.png" alt="Paired bars of driving and public transit shares: urban core 28 and 39 percent, inner suburb 57 and 25, outer suburb 78 and 14, rural 89 and 3."><figcaption><span class="n">Figure 2.</span> How people get to work, by the kind of area they live in.</figcaption></figure>
+      <figure class="rpt-fig"><img src="../assets/img/capstone-commute-result.png" alt="Stacked bars of commute mode share by area type, beside a heatmap of standardized residuals showing strong effects in the car and public-transit cells."><figcaption><span class="n">Figure 1.</span> Left: how each area splits across the four modes. Right: which combinations occur far more or far less often than they would if area made no difference. The strongest reds and blues sit in the car and transit columns, with cycling and walking also red in the urban core.</figcaption></figure>
+      <figure class="rpt-fig"><img src="../assets/img/report-08-commute.png" alt="Paired bars of driving and public transit shares: urban core 28.5 and 39 percent, inner suburb 57 and 25, outer suburb 78 and 14, rural 89 and 3."><figcaption><span class="n">Figure 2.</span> How people get to work, by the kind of area they live in.</figcaption></figure>
       <h2>Where the effect actually sits</h2>
-      <p>Cycling and walking barely move across the four areas. The whole relationship is carried by <strong>cars and public transit</strong>, at the two extremes of density. That is a practical steer: the lever worth pulling in rural areas is not a bike lane, and the lever worth pulling in the urban core is not a car park.</p>
+      <p>Most of the relationship is carried by <strong>cars and public transit</strong>, at the two extremes of density, though cycling and walking also fall from about 16% each in the urban core to about 4% in rural areas. That is a practical steer: the lever worth pulling in rural areas is not a bike lane, and the lever worth pulling in the urban core is not a car park.</p>
       <h2>One number you should not quote</h2>
       <p>The survey deliberately sampled <strong>200 residents from each area</strong>, so every area is measured with the same precision. That design makes comparisons between areas fair, but it also means this sample does not mirror how the population is actually distributed. Any headline of the form 'X percent of residents in the region take the bus' computed from this file would be misleading. Comparing areas is what the survey was built for; producing a single regional total would require weighting each area by its real population first.</p>
       <h2>A caution on interpretation</h2>
